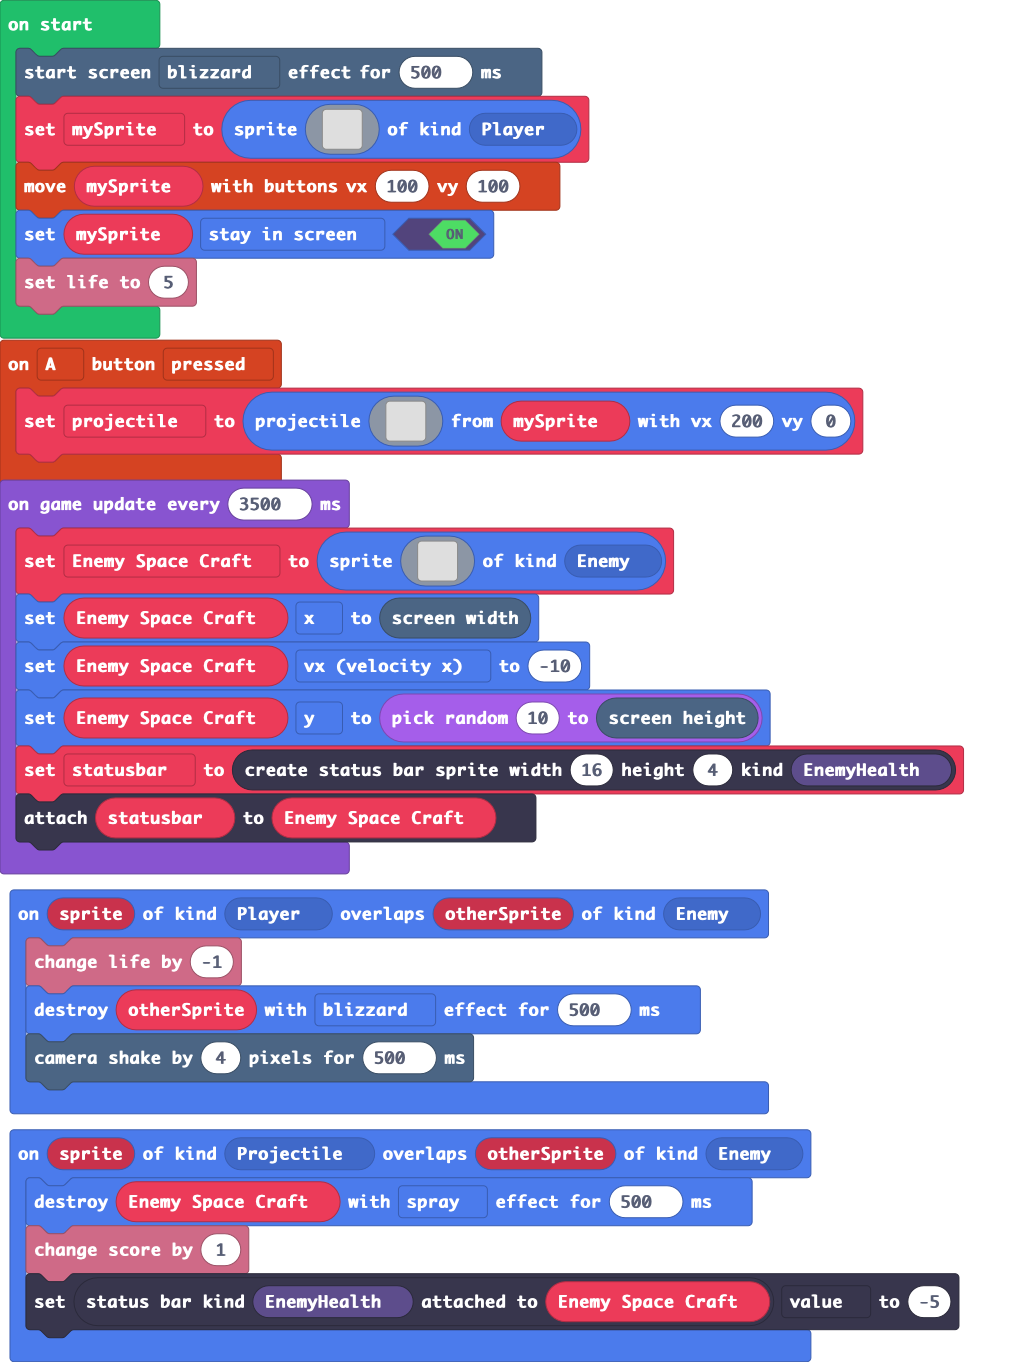
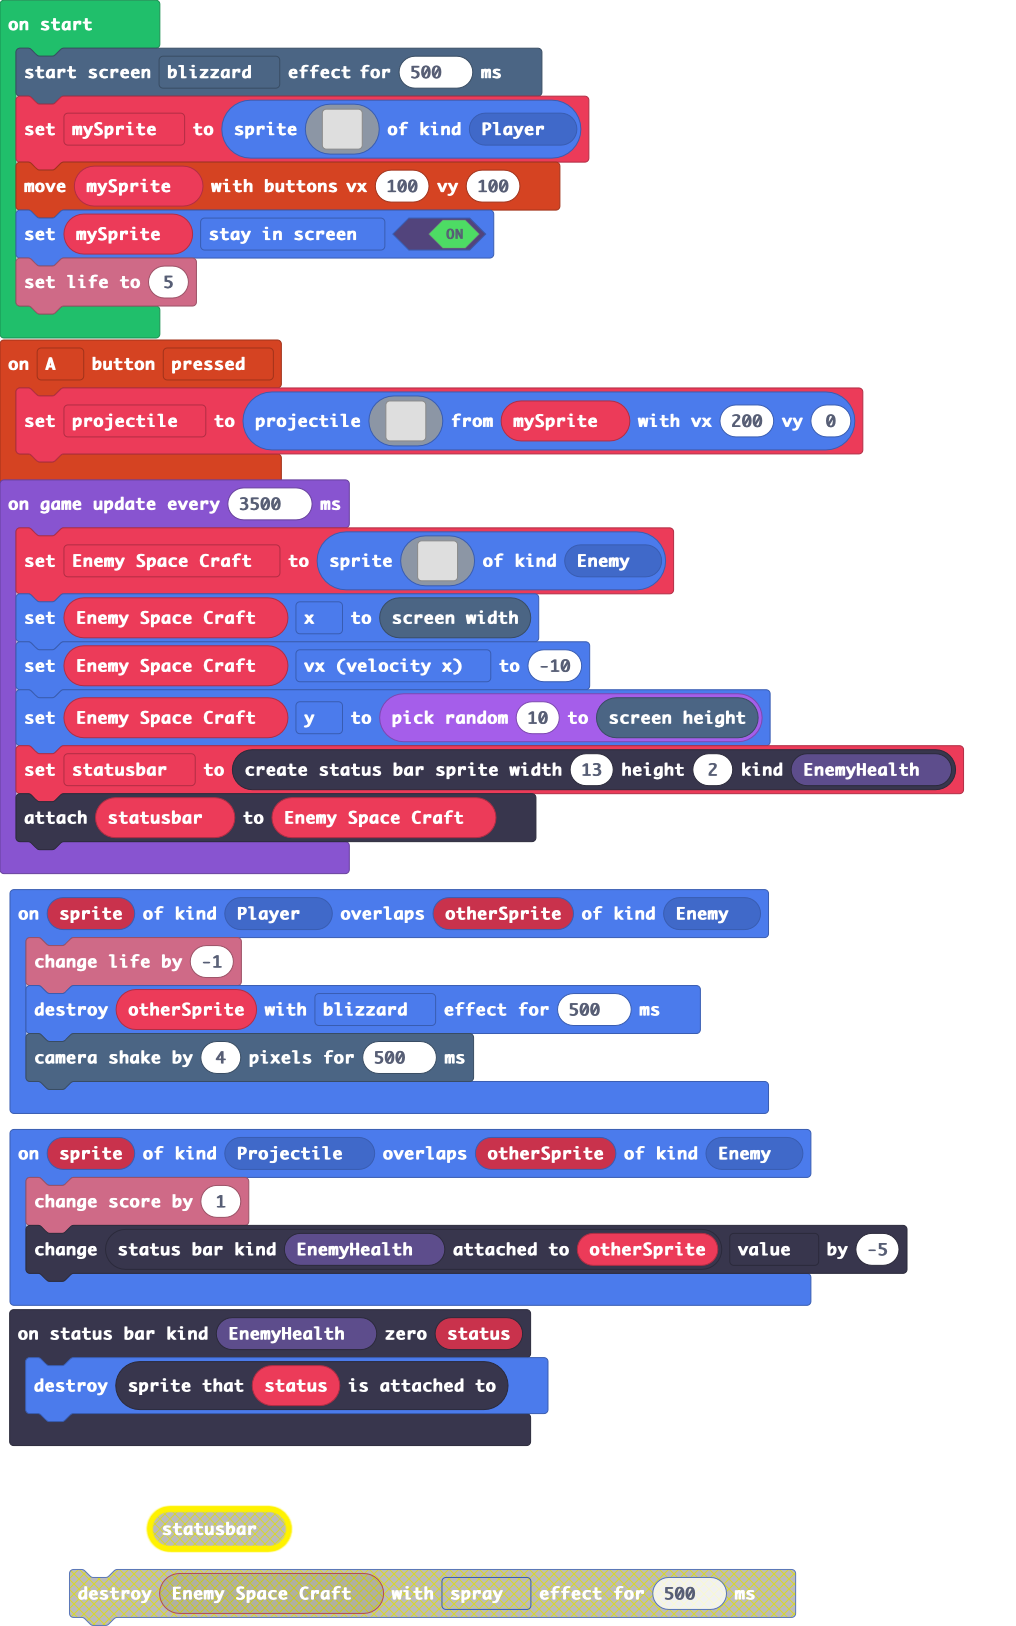
Enemy killing when health bar runs out

diff --git a/main.ts b/main.ts
@@ -18,10 +18,12 @@ controller.A.onEvent(ControllerButtonEvent.Pressed, function () {
         . . . . . . . . . . . . . . . . 
         `, mySprite, 200, 0)
 })
+statusbars.onZero(StatusBarKind.EnemyHealth, function (status) {
+    status.spriteAttachedTo().destroy()
+})
 sprites.onOverlap(SpriteKind.Projectile, SpriteKind.Enemy, function (sprite, otherSprite) {
-    Enemy_Space_Craft.destroy(effects.spray, 500)
     info.changeScoreBy(1)
-    statusbars.getStatusBarAttachedTo(StatusBarKind.EnemyHealth, Enemy_Space_Craft).value = -5
+    statusbars.getStatusBarAttachedTo(StatusBarKind.EnemyHealth, otherSprite).value += -5
 })
 sprites.onOverlap(SpriteKind.Player, SpriteKind.Enemy, function (sprite, otherSprite) {
     info.changeLifeBy(-1)
@@ -76,6 +78,6 @@ game.onUpdateInterval(3500, function () {
     Enemy_Space_Craft.x = scene.screenWidth()
     Enemy_Space_Craft.vx = -10
     Enemy_Space_Craft.y = randint(10, scene.screenHeight())
-    statusbar = statusbars.create(16, 4, StatusBarKind.EnemyHealth)
+    statusbar = statusbars.create(13, 2, StatusBarKind.EnemyHealth)
     statusbar.attachToSprite(Enemy_Space_Craft)
 })
